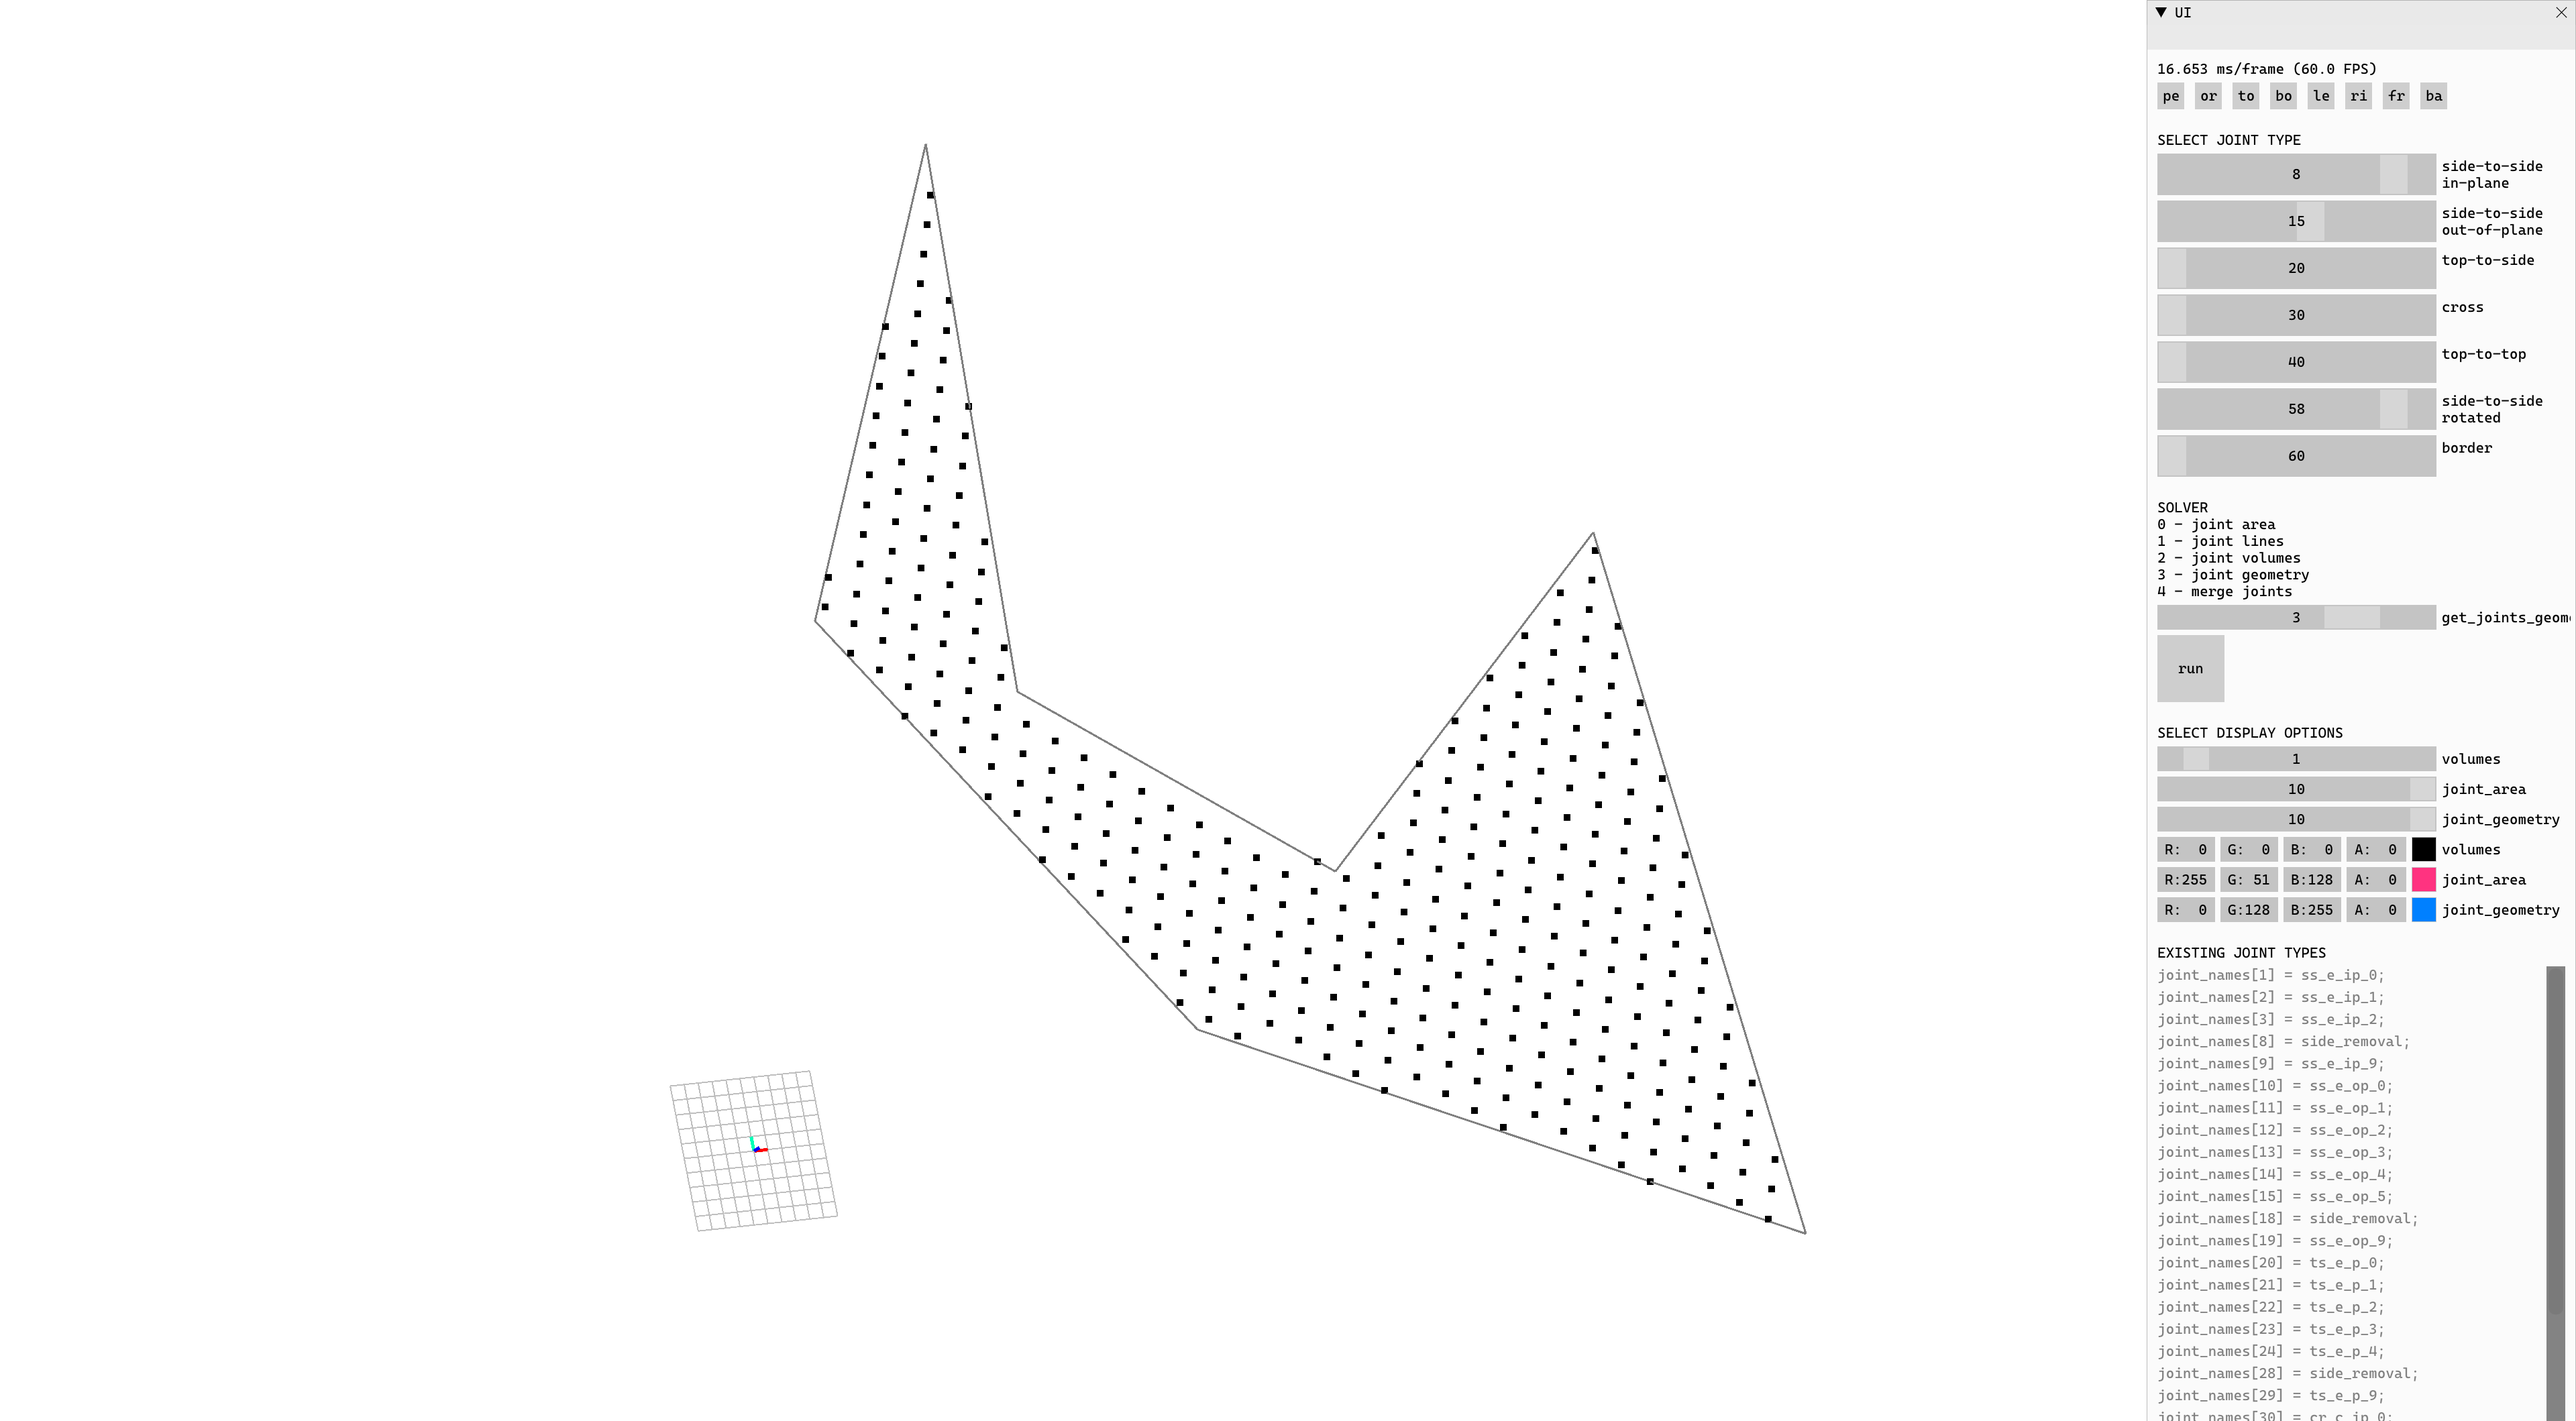
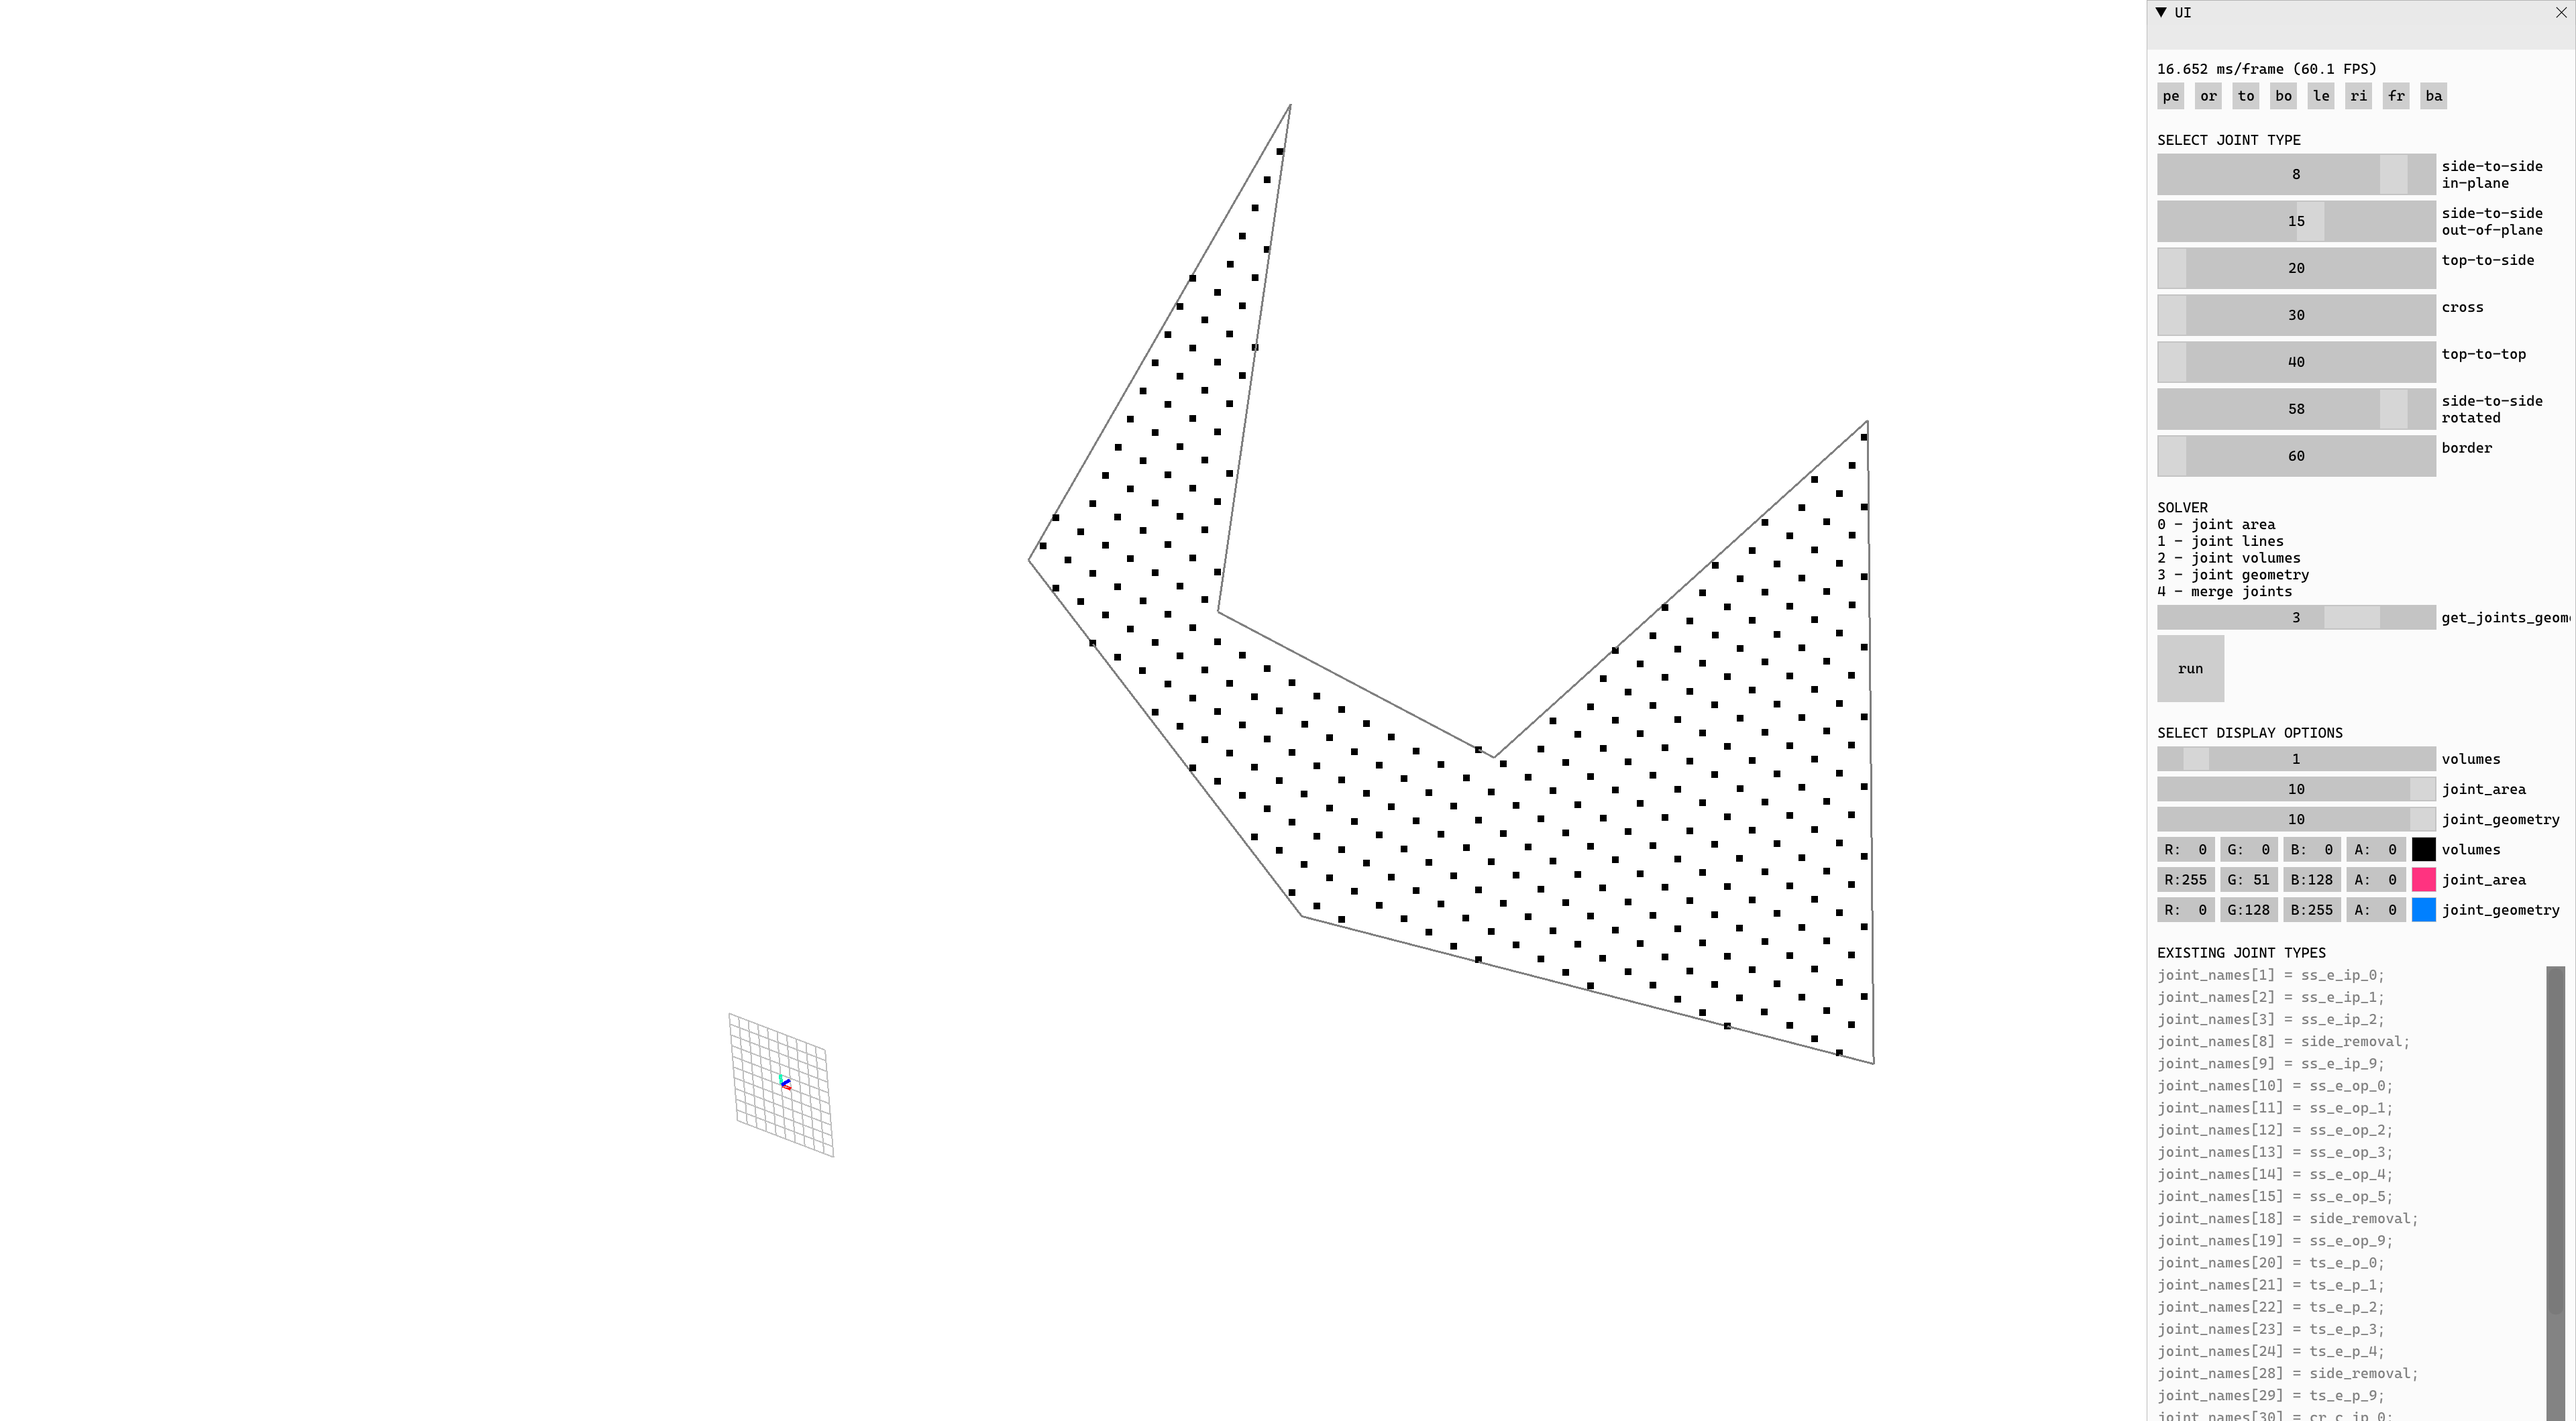
wood_test opengl_render::render(wood_test::type_geometry_name_grid_of_points_in_a_polygon);

diff --git a/backend/stdafx.h b/backend/stdafx.h
@@ -50,10 +50,10 @@
 #include <glm/gtx/euler_angles.hpp>
 
 // imgui
-//#include "imgui.h"
-//#include "imgui_impl_glfw.h"
-//#include "imgui_impl_opengl3.h"
-//#include "imgui_my_style.h"
+// #include "imgui.h"
+// #include "imgui_impl_glfw.h"
+// #include "imgui_impl_opengl3.h"
+// #include "imgui_my_style.h"
 
 // assimp
 #include <stb_image.h>
@@ -71,33 +71,33 @@
 #include "src/viewer/include/opengl/opengl_debug.h"
 
 // imgui
-//#include "imgui.h"
+// #include "imgui.h"
 #include "wood_globals.h"
 #include "imgui_impl_glfw.h"
 #define IMGUI_IMPL_OPENGL_LOADER_CUSTOM
 #include "imgui_impl_opengl3.h"
 
-//#include "imgui.h"
-//#include "imgui_impl_opengl3.h"
+// #include "imgui.h"
+// #include "imgui_impl_opengl3.h"
 
 // my lib goemetry
 #include "src/viewer/include/opengl/opengl_shaders.h"
 
 #include "src/viewer/include/opengl/opengl_polylines.h"
 #include "src/viewer/include/opengl/opengl_pointclouds.h"
-//#include <CDT.h>
-// temp
-//#include <CDT.h>
-//#include "src/viewer/include/opengl/opengl_triangulation.h"
+// #include <CDT.h>
+//  temp
+// #include <CDT.h>
+// #include "src/viewer/include/opengl/opengl_triangulation.h"
 #include <CDT.h>                                            //used in opengl_meshes
 #include "src/viewer/include/opengl/opengl_triangulation.h" //used in opengl_meshes
 
 #include "src/viewer/include/opengl/opengl_meshes.h"
 #include "src/viewer/include/opengl/opengl_cameras.h"
 #define gui
-//#ifdef(gui) //only declare this if the following header is outside of the precompiled header
+// #ifdef(gui) //only declare this if the following header is outside of the precompiled header
 #include "src/viewer/include/imgui/imgui_render.h"
-//#endif//only declare this if the following header is outside of the precompiled header
+// #endif//only declare this if the following header is outside of the precompiled header
 #include "src/viewer/include/opengl/opengl_globals_geometry.h"
 #include "src/viewer/include/opengl/opengl_render.h"
 
@@ -105,9 +105,9 @@
 #include "src/viewer/include/opengl/opengl_meshes.h"
 #include "src/viewer/include/opengl/opengl_cameras.h"
 #define gui
-//#ifdef(gui) //only declare this if the following header is outside of the precompiled header
+// #ifdef(gui) //only declare this if the following header is outside of the precompiled header
 #include "src/viewer/include/imgui/imgui_render.h"
-//#endif//only declare this if the following header is outside of the precompiled header
+// #endif//only declare this if the following header is outside of the precompiled header
 #include "src/viewer/include/opengl/opengl_globals_geometry.h"
 #include "src/viewer/include/opengl/opengl_render.h"
 
@@ -159,7 +159,7 @@
 #include <boost/property_tree/xml_parser.hpp>
 
 // CLIPPER
-//#include "clipper.h"
+// #include "clipper.h"
 
 // RTREE
 #include "src/wood/include/rtree.h"
@@ -191,8 +191,8 @@ static std::string path_and_file_for_joints = "";
 // Display
 static std::vector<CGAL_Polyline> viewer_polylines;
 
-    struct FaceInfo2
-    {
+struct FaceInfo2
+{
     FaceInfo2() {}
     int nesting_level;
     bool in_domain()
@@ -236,4 +236,4 @@ using RowMatrixXi = Eigen::Matrix<int, Eigen::Dynamic, Eigen::Dynamic, Eigen::Ro
 #include "clipper_util.h"
 #include "rtree_util.h"
 
-//#include "wood_data_set.h" // data_set, attention do not use this in not a precompiled header it add 10-12 seconds of compilation time, just for temporary testing
+// #include "wood_data_set.h" // data_set, attention do not use this in not a precompiled header it add 10-12 seconds of compilation time, just for temporary testing

diff --git a/backend/src/wood/include/wood_test.cpp b/backend/src/wood/include/wood_test.cpp
@@ -1262,7 +1262,7 @@ namespace wood_test
     bool type_geometry_name_offest_polygon_inside_and_divide_into_points()
     {
         // screenshot
-        internal::set_file_path_for_input_xml_and_screenshot("type_geometry_name_grid_of_points_in_a_polygon");
+        internal::set_file_path_for_input_xml_and_screenshot("type_geometry_name_offest_polygon_inside_and_divide_into_points");
 
         // data-set
         CGAL_Polyline polygon{
@@ -1278,16 +1278,30 @@ namespace wood_test
 
         // main method
         std::vector<IK::Point_3> points;
+        double offset_distance = -2.5;
+        double division_distance = 10;
 
         // offset polygon
         IK::Point_3 center;
         IK::Plane_3 plane;
         CGAL_Polyline polygon_copy = polygon;
         cgal_polyline_util::get_fast_plane(polygon_copy, center, plane);
-        clipper_util::offset_2D(polygon_copy, plane, -2.5);
+        clipper_util::offset_2D(polygon_copy, plane, offset_distance);
 
-        // divide into points
-        // cgal_rectangle_util::grid_of_points_in_a_polygon(polygon, 2.5, 100, points);
+        // interpolate two points in steps
+        for (int i = 0; i < polygon_copy.size() - 1; i++)
+        {
+            std::vector<IK::Point_3> division_points;
+            int divisions = (int)std::min(100.0, std::sqrt(CGAL::squared_distance(polygon_copy[i], polygon_copy[i + 1])) / division_distance);
+            cgal_vector_util::interpolate_points(polygon_copy[i], polygon_copy[i + 1], divisions, division_points, 1);
+            points.insert(points.end(), division_points.begin(), division_points.end());
+        }
+
+        // if the polyline is open
+        if (CGAL::squared_distance(polygon_copy.front(), polygon_copy.back()) > GlobalToleranceSquare)
+        {
+            points.emplace_back(polygon_copy.back());
+        }
 
         // display
         opengl_globals_geometry::add_grid();
@@ -1295,7 +1309,7 @@ namespace wood_test
         std::vector<CGAL_Polyline> polylines = {polygon, polygon_copy};
         viewer_wood::add(polylines);
         viewer_wood::line_thickness = 10;
-        // viewer_wood::add(points);
+        viewer_wood::add(points);
         viewer_wood::line_thickness = 3;
         viewer_wood::scale = 1000;
 

diff --git a/backend/src/wood/include/cgal_vector_util.h b/backend/src/wood/include/cgal_vector_util.h
@@ -1,6 +1,6 @@
 #pragma once
 
-//#include "../../stdafx.h"
+// #include "../../stdafx.h"
 
 namespace cgal_vector_util
 {
@@ -486,6 +486,62 @@ namespace cgal_vector_util
         else
         {
             return 0;
+        }
+    }
+
+    inline void interpolate_points(const IK::Point_3 &from, const IK::Point_3 &to, const int &steps, std::vector<IK::Point_3> &points, int type_0_noends_1_end_2_oneend = 0)
+    {
+
+        switch (type_0_noends_1_end_2_oneend)
+        {
+        case (0):
+        {
+            points.reserve(steps);
+
+            for (int i = 1; i < steps + 1; i++)
+            {
+                double t = i / (double)(1 + steps);
+
+                points.emplace_back(
+                    from.hx() + t * (to.hx() - from.hx()),
+                    from.hy() + t * (to.hy() - from.hy()),
+                    from.hz() + t * (to.hz() - from.hz()));
+            }
+        }
+        break;
+        case (1):
+        {
+            points.reserve(steps + 2);
+            points.emplace_back(from);
+
+            for (int i = 1; i < steps + 1; i++)
+            {
+                double t = i / (double)(1 + steps);
+
+                points.emplace_back(
+                    from.hx() + t * (to.hx() - from.hx()),
+                    from.hy() + t * (to.hy() - from.hy()),
+                    from.hz() + t * (to.hz() - from.hz()));
+            }
+            points.emplace_back(to);
+        }
+        break;
+        case (2):
+        {
+            points.reserve(steps + 1);
+            points.emplace_back(from);
+
+            for (int i = 1; i < steps + 1; i++)
+            {
+                double t = i / (double)(1 + steps);
+
+                points.emplace_back(
+                    from.hx() + t * (to.hx() - from.hx()),
+                    from.hy() + t * (to.hy() - from.hy()),
+                    from.hz() + t * (to.hz() - from.hz()));
+            }
+        }
+        break;
         }
     }
 }

diff --git a/backend/src/wood/include/wood_globals.cpp b/backend/src/wood/include/wood_globals.cpp
@@ -1,6 +1,8 @@
 #include "wood_globals.h"
 #include "../../../stdafx.h"
 
+
+
 namespace wood_globals
 {
 
@@ -52,10 +54,8 @@ namespace wood_globals
 
     std::vector<double> joint_types{300, 0.5, 8, 450, 0.64, 15, 450, 0.5, 20, 300, 0.5, 30, 300, 0.5, 40, 300, 0.5, 58, 300, 1.0, 60};
 
-    //how to make the local path to the data set folder
+    // how to make the local path to the data set folder
     std::string data_set_input_folder = "C:\\IBOIS57\\_Code\\Software\\Python\\compas_wood\\backend\\src\\wood\\dataset\\";
     std::string data_set_output_file = data_set_input_folder + "out.xml";
 
-
-    
 }

diff --git a/backend/main.cpp b/backend/main.cpp
@@ -14,7 +14,7 @@ int main(int argc, char **argv)
 	//////////////////////////////////////////////////////////////////////////////////////////////////////////////////////
 	opengl_globals::shader_type_0default_1transparent_2shaded_3shadedwireframe_4wireframe_5normals_6explode = 2;
 	opengl_globals::shaders_folder = "C:\\IBOIS57\\_Code\\Software\\Python\\compas_wood\\backend\\src\\viewer\\shaders\\";
-	opengl_render::render(wood_test::type_geometry_name_offest_polygon_inside_and_divide_into_points);
+	opengl_render::render(wood_test::type_geometry_name_grid_of_points_in_a_polygon);
 
 	return 0;
 }

diff --git a/backend/src/wood/include/wood_globals.h b/backend/src/wood/include/wood_globals.h
@@ -1,8 +1,11 @@
 #ifndef WOOD_GLOBALS_H
 #define WOOD_GLOBALS_H
 
+
+
 namespace wood_globals
 {
+
     extern int output_geometry_type;
     extern bool force_side_to_side_joints_to_be_rotated; // when all joints are computed as if sides are rotated, it was implemented in the Touch Wood ZAZ
     extern bool run;
@@ -12,7 +15,6 @@ namespace wood_globals
     extern std::vector<std::string> existing_types;
     extern std::vector<double> joint_types;
 
-    
     extern std::string data_set_input_folder;
     extern std::string data_set_output_file;
 }
